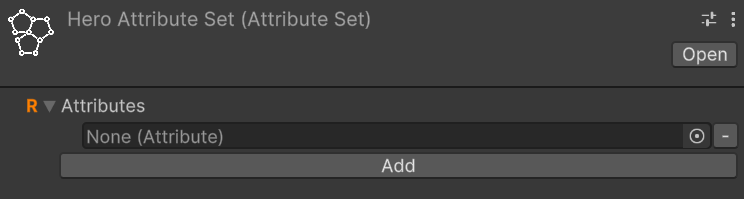
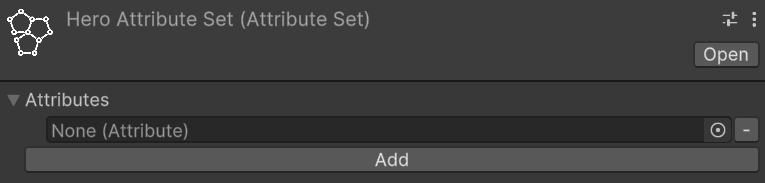
Update images

diff --git a/DocFx/MD/workflows.md b/DocFx/MD/workflows.md
@@ -170,7 +170,7 @@ To retrieve the values of a `GrowthFormula` from code, you can use the `GetGrowt
 int physicalAttackLevel5 = warriorPhysicalAttackGF.GetGrowthValue(5);
 ```
 
-## Make a `GameObject` an entity
+## Making a `GameObject` an entity
 To make a `GameObject` an entity, we need to add the `MonoBehaviour` `EntityCore` to it. Select your object from the hierarchy and click, in the inspector, on "Add component". Then search for and select `EntityCore`.
 
 ![Entity Core Custom Editor](../images/workflows/entity-core-editor.png)  
